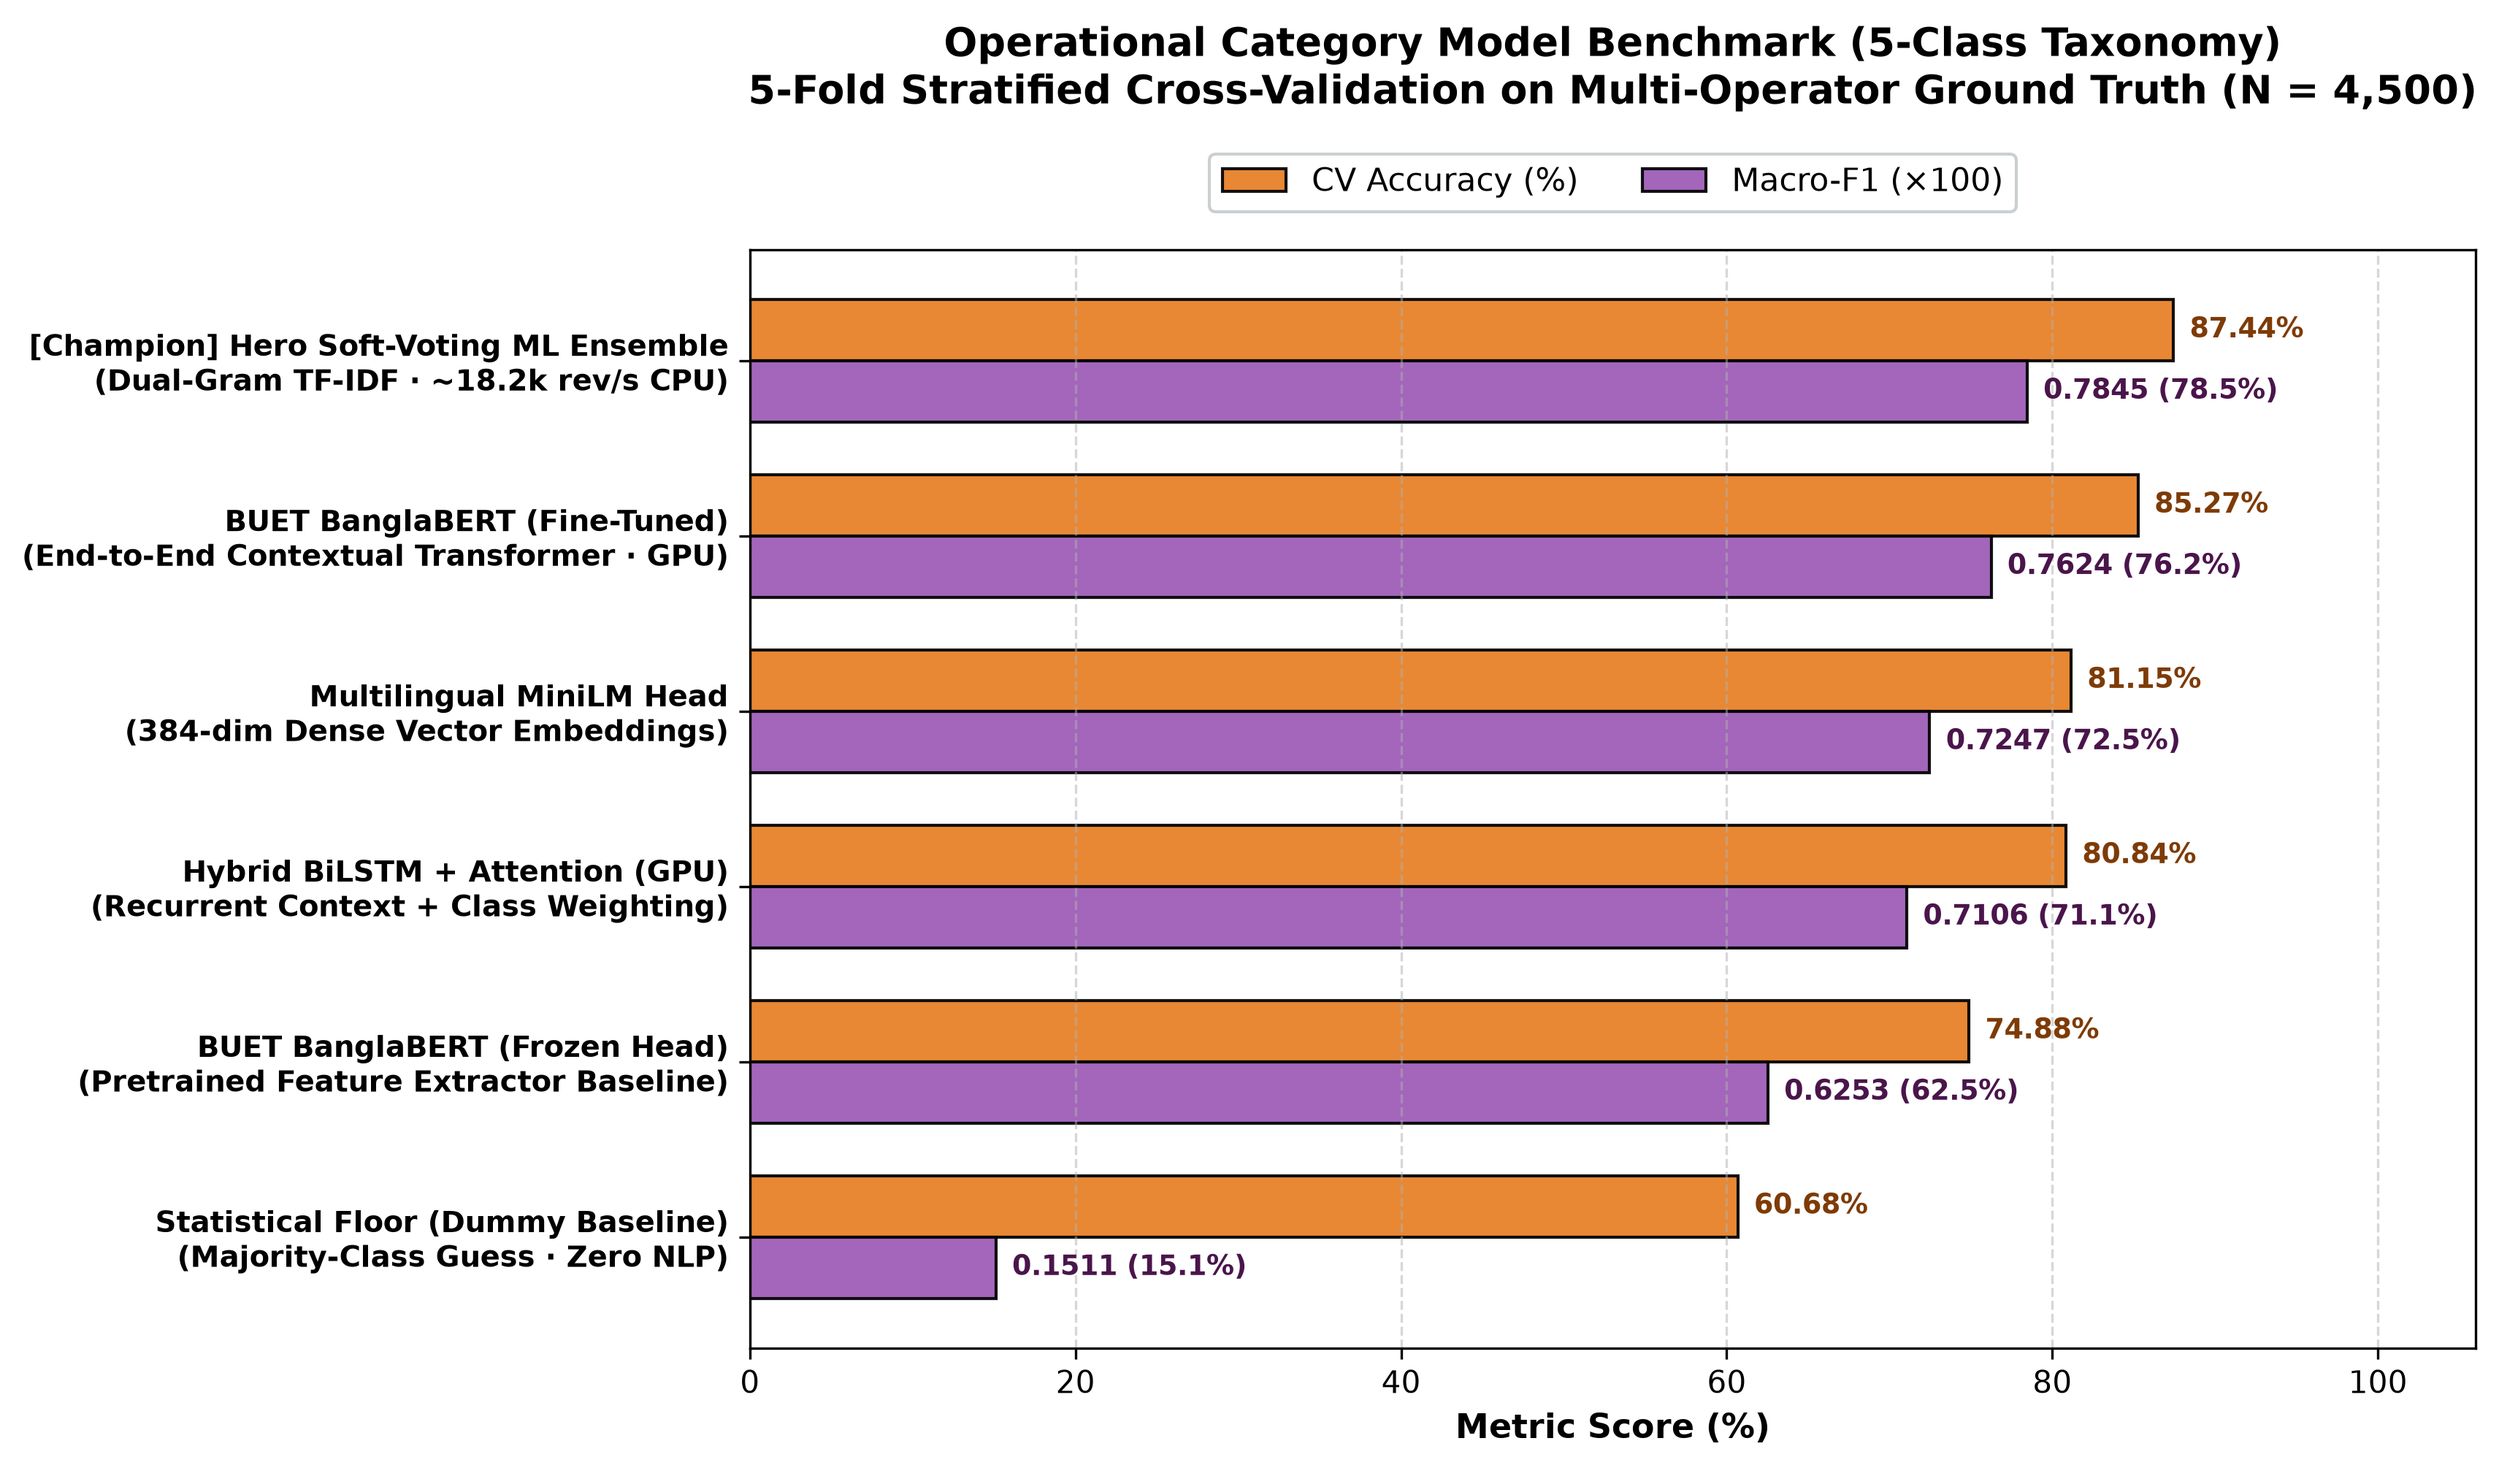
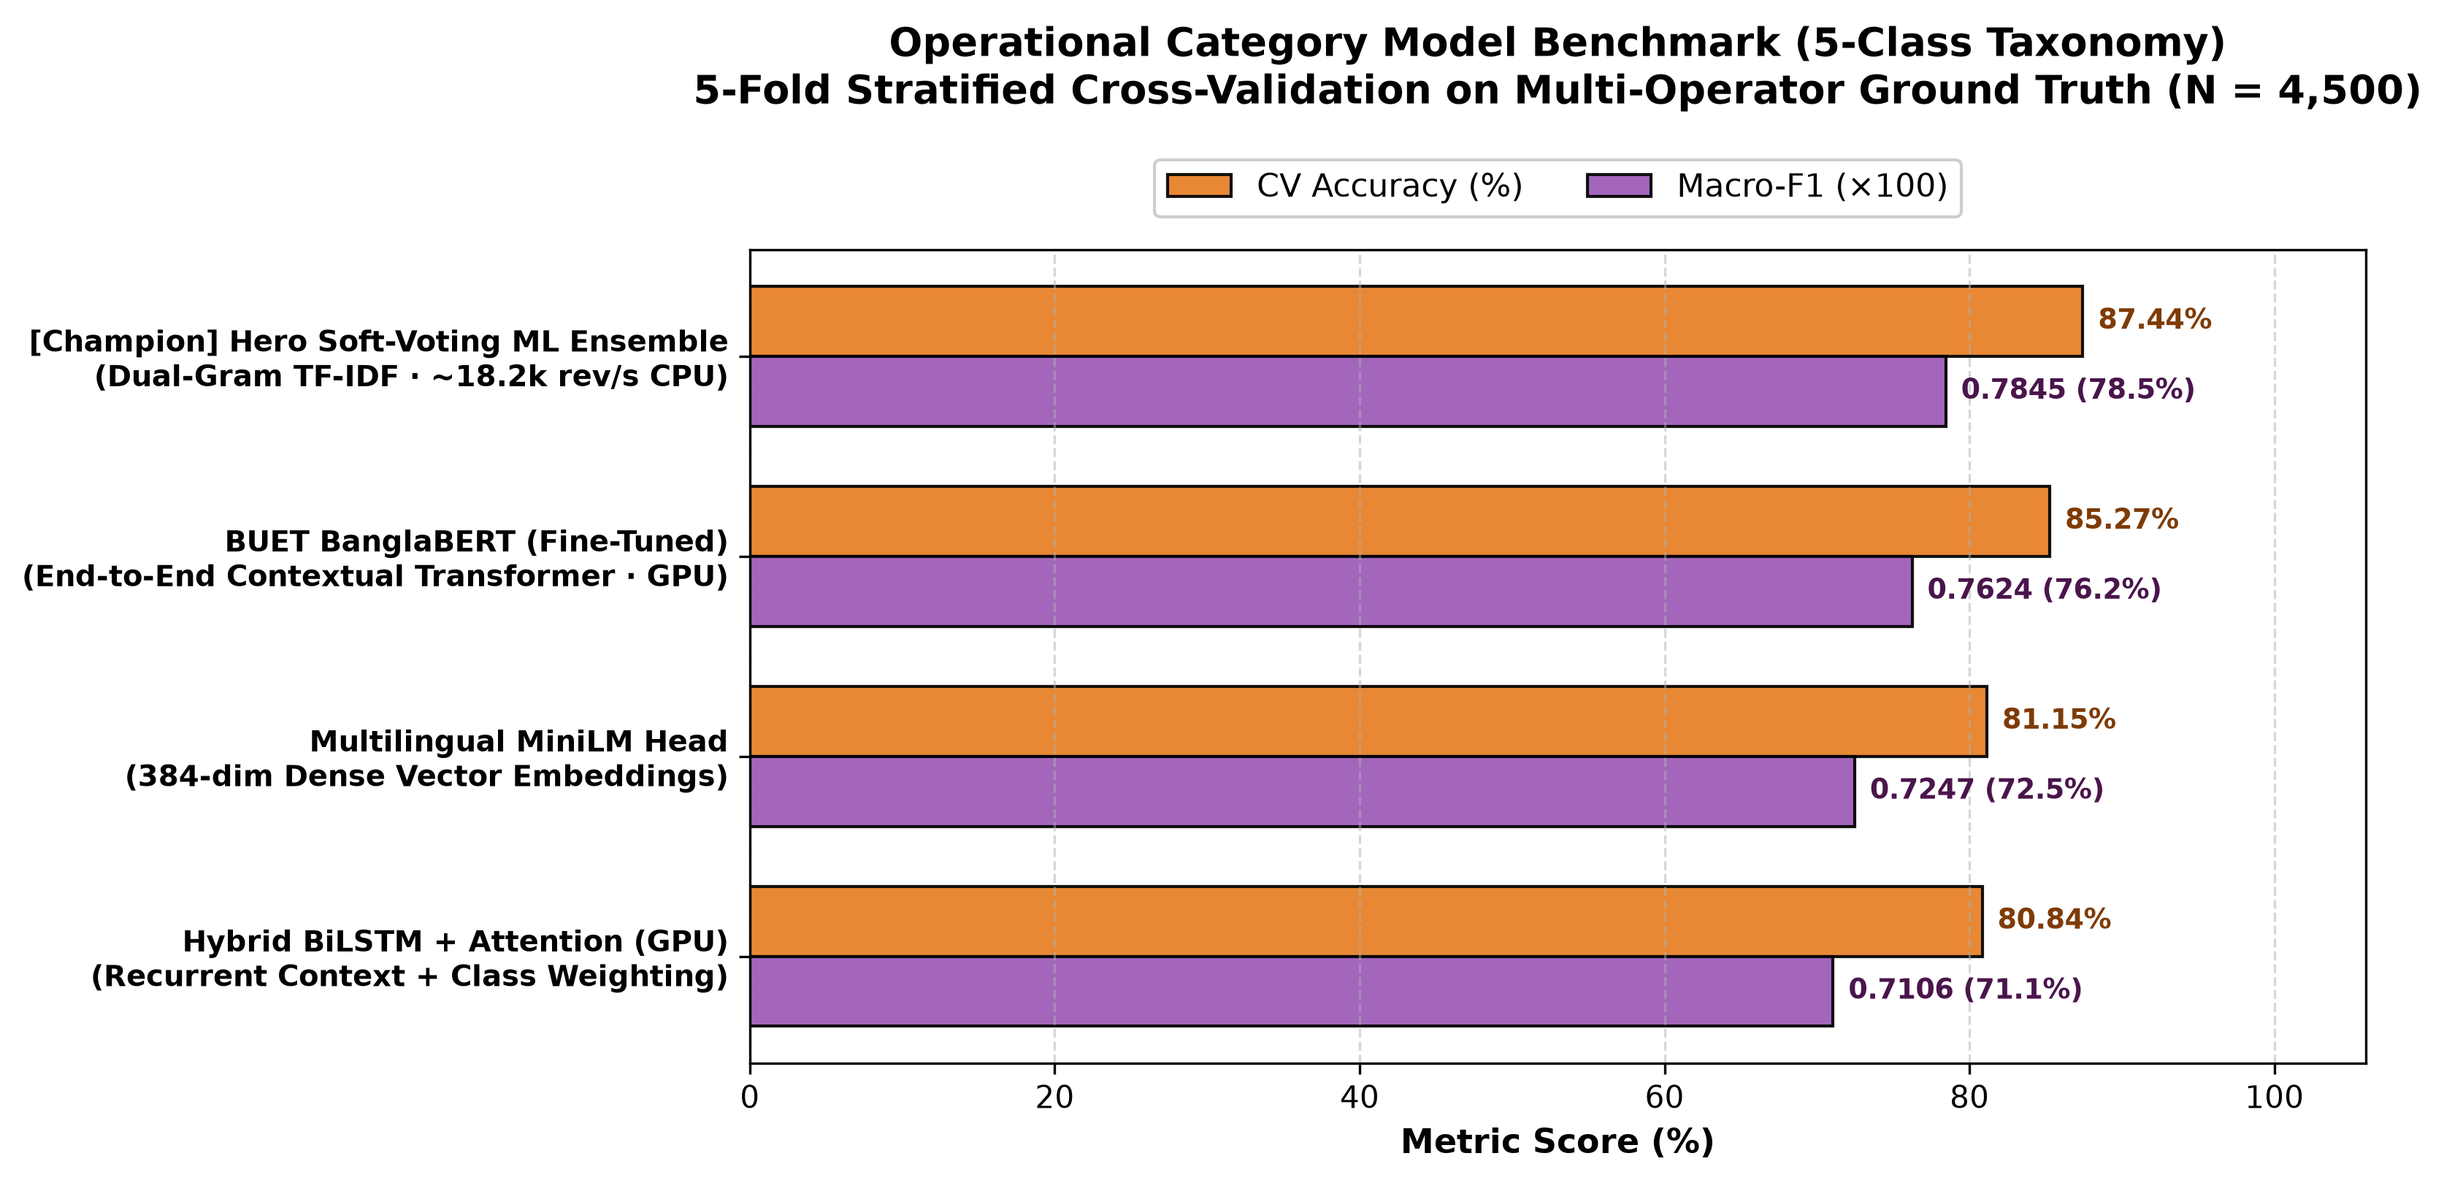
refactor(archive): archive frozen head notebook and Power BI demo GIFs, streamline category leaderboards

diff --git a/scraped_data_global_2020_2026/pipeline/generate_global_visualizations.py b/scraped_data_global_2020_2026/pipeline/generate_global_visualizations.py
@@ -590,22 +590,18 @@ def plot_category_model_benchmark():
         "BUET BanglaBERT (Fine-Tuned)",
         "Multilingual MiniLM Head",
         "Hybrid BiLSTM + Attention",
-        "BUET BanglaBERT (Frozen Head)",
-        "Statistical Floor (Dummy)",
     ]
     labels = [
         "[Champion] Hero Soft-Voting ML Ensemble\n(Dual-Gram TF-IDF · ~18.2k rev/s CPU)",
         "BUET BanglaBERT (Fine-Tuned)\n(End-to-End Contextual Transformer · GPU)",
         "Multilingual MiniLM Head\n(384-dim Dense Vector Embeddings)",
         "Hybrid BiLSTM + Attention (GPU)\n(Recurrent Context + Class Weighting)",
-        "BUET BanglaBERT (Frozen Head)\n(Pretrained Feature Extractor Baseline)",
-        "Statistical Floor (Dummy Baseline)\n(Majority-Class Guess · Zero NLP)",
     ]
-    acc = [87.44, 85.27, 81.15, 80.84, 74.88, 60.68]
-    f1_raw = [0.7845, 0.7624, 0.7247, 0.7106, 0.6253, 0.1511]
+    acc = [87.44, 85.27, 81.15, 80.84]
+    f1_raw = [0.7845, 0.7624, 0.7247, 0.7106]
     f1_pct = [v * 100 for v in f1_raw]
 
-    fig, ax = plt.subplots(figsize=(11.5, 6.8), dpi=300)
+    fig, ax = plt.subplots(figsize=(11.0, 5.5), dpi=300)
     y = np.arange(len(models))
     y_rev = y[::-1]
     h = 0.35

diff --git a/PROJECT_GUIDE.md b/PROJECT_GUIDE.md
@@ -202,11 +202,12 @@ Rather than relying on a single architecture, multiple machine learning and deep
 | Rank | Model Architecture | CV Accuracy | Macro-F1 | Throughput / Latency | Architectural Role |
 | :---: | :--- | :---: | :---: | :---: | :--- |
 | 🥇 | **Hero Soft-Voting ML Ensemble** | **87.44%** | **0.7845** | **~18,200 rev/s** | **Category Champion**: Sub-word character n-grams excel on code-mixed Banglish keywords. |
-| 🥈 | **BUET BanglaBERT (Fine-Tuned)** | **85.27%** | **0.7624** | GPU Batched | Deep contextual representations; +10.4% leap over frozen baseline. |
+| 🥈 | **BUET BanglaBERT (Fine-Tuned)** | **85.27%** | **0.7624** | GPU Batched | Deep contextual representations with full 12-layer backpropagation. |
 | 🥉 | **Multilingual MiniLM Head** | **81.15%** | **0.7247** | ~2,100 rev/s | Multilingual sentence semantic representations with regularized head. |
 | 4 | **Hybrid BiLSTM + Attention (GPU)** | **80.84%** | **0.7106** | Fast GPU Batched | Sequential recurrent context with class-weighted loss. |
-| 5 | **BUET BanglaBERT (Frozen Head)** | **74.88%** | **0.6253** | GPU Required | Baseline frozen feature extractor without end-to-end gradient updates. |
-| 6 | **Statistical Floor (Dummy)** | **60.68%** | **0.1511** | Instant | Naive majority-class baseline without semantic understanding. |
+
+> [!NOTE]
+> **Ablation Note on Frozen vs. Fine-Tuned Transformer**: In early baseline experiments, BUET BanglaBERT was tested as a frozen feature extractor (static 768-dim embeddings + linear head), achieving 74.88% Accuracy / 0.6253 Macro-F1. Full end-to-end fine-tuning delivered a **+10.39% accuracy leap** (85.27% / 0.7624 Macro-F1), proving that updating transformer self-attention layers is essential for adapting to Romanized Banglish tokens. Early frozen baseline notebooks are archived in [`archive/early_dl_experiments/`](archive/early_dl_experiments/).
 
 ### Deep-Dive on Core Architectures:
 
@@ -344,6 +345,9 @@ telecom-Voice-of-Customer_intelligence/
 │       └── generate_global_visualizations.py # Renders all publication-grade 300 DPI plots
 │
 ├── archive/                                  # 🗄 Historical Research & Validation Studies
+│   ├── early_dl_experiments/                 # Early frozen head baseline exploration (superseded by fine-tuning)
+│   ├── powerbi_dashboard/                    # Initial prototype Power BI interface recordings (superseded by Python 300 DPI suite)
+│   ├── seed_pipeline_groq/                   # Phase 1 Groq LLM weak-supervision seed pipeline
 │   └── scraped_data_2020/gold_set/
 │       ├── blind_annotation_300_ratul.csv    # Primary human ground truth (N = 300)
 │       ├── blind_annotation_200_friend.csv   # Independent secondary blind review (N = 200)

diff --git a/archive/early_dl_experiments/README.md b/archive/early_dl_experiments/README.md
@@ -1,0 +1,38 @@
+# 🗄 Archived: Early Deep Learning & Frozen Head Baseline Experiments
+
+> **Status: ARCHIVED / SUPERSEDED** (October 2026)  
+> The active transformer pipeline is BUET BanglaBERT **Full End-to-End Fine-Tuning** located in [`dl/finetune_banglabert.py`](../../dl/finetune_banglabert.py) and [`dl/telecom_voc_banglabert_finetuning_colab.ipynb`](../../dl/telecom_voc_banglabert_finetuning_colab.ipynb).
+
+---
+
+## 📌 Overview
+
+This archive preserves the initial preliminary deep learning experiments conducted prior to implementing end-to-end transformer fine-tuning.
+
+### Archived Files
+- **`telecom_voc_comment_type_classification_colab.ipynb`**:  
+  Initial Colab exploration for 5-class operational category classification using:
+  1. Multilingual MiniLM embeddings (`sentence-transformers/paraphrase-multilingual-MiniLM-L12-v2`) + MLP head.
+  2. PyTorch BiLSTM + Bahdanau attention.
+  3. **BUET BanglaBERT as a Frozen Feature Extractor (`csebuetnlp/banglabert`)**: 
+     In this experiment, the 12 transformer encoder layers were frozen (`torch.no_grad()`), and only a shallow 2-layer MLP head was trained on static 768-dimensional embeddings.
+
+---
+
+## 📊 Empirical Findings & Why It Was Superseded
+
+| Model Architecture | Approach | 5-Fold CV Accuracy | Macro-F1 | Status |
+| :--- | :--- | :---: | :---: | :--- |
+| **BUET BanglaBERT (Frozen Head)** | Static 768-dim embeddings + 2-layer MLP | **74.88%** | **0.6253** | ❌ Underperformed Classical Ensemble (87.44%) |
+| **BUET BanglaBERT (Fine-Tuned)** | Full 12-layer backpropagation (`dl/finetune_banglabert.py`) | **85.27%** | **0.7624** | 🏆 **+10.39% leap** over frozen baseline |
+
+### Why Frozen Feature Extraction Failed
+Pre-trained BanglaBERT representations were trained primarily on formal Bengali web text (Wikipedia, news articles). When presented with customer reviews containing:
+- Heavy phonetic Romanized Bengali ("Banglish") like *"MB er dam beshi"*, *"balance kete niyeche"*, *"faltu network"*,
+- Telecom domain abbreviations (*"VAS"*, *"OTP"*, *"4G"*),
+
+a frozen feature extractor cannot adapt its sub-word token attention weights to these out-of-domain patterns. 
+
+By propagating gradients through all 12 transformer layers during **end-to-end fine-tuning**, the model adapted its internal self-attention heads to telecom domain vocabulary, increasing category accuracy from **74.88% to 85.27%** and achieving state-of-the-art sentiment accuracy of **91.60%**.
+
+The frozen head setup is preserved here purely as an academic ablation baseline.

diff --git a/dl/README.md b/dl/README.md
@@ -22,7 +22,7 @@ This folder contains the complete Deep Learning pipeline, neural model architect
      https://colab.research.google.com/github/rh61632/telecom-Voice-of-Customer_intelligence/blob/main/dl/telecom_voc_banglabert_finetuning_colab.ipynb
      ```
 3. [**`telecom_voc_deep_learning_colab.ipynb`**](file:///home/ratul/Github/telecom-Voice-of-Customer_intelligence/dl/telecom_voc_deep_learning_colab.ipynb): Focused **Sentiment Classification** (Positive, Neutral, Negative).
-4. [**`telecom_voc_comment_type_classification_colab.ipynb`**](file:///home/ratul/Github/telecom-Voice-of-Customer_intelligence/dl/telecom_voc_comment_type_classification_colab.ipynb): Focused **Comment Type / Operational Category** (5 Classes).
+4. [**`archive/early_dl_experiments/telecom_voc_comment_type_classification_colab.ipynb`**](../archive/early_dl_experiments/telecom_voc_comment_type_classification_colab.ipynb): [Archived] Early exploratory frozen feature extractor notebook. Superseded by full fine-tuning notebook above.
 
 ---
 
@@ -73,10 +73,12 @@ Evaluated on the 4,500 curated ground-truth reviews across **Grameenphone**, **R
 | Rank | Model Architecture | CV Accuracy | Macro-F1 | Status / Implementation |
 | :---: | :--- | :---: | :---: | :--- |
 | 🥇 | **Hero Soft-Voting ML Ensemble** | **87.44%** | **0.7845** | Dual-Gram TF-IDF + Logistic Regression + LinearSVC + ComplementNB |
-| 🥈 | **BUET BanglaBERT (Fine-Tuned)** | **85.27%** | **0.7624** | Full 12-layer backpropagation; +10.4% leap over frozen baseline |
+| 🥈 | **BUET BanglaBERT (Fine-Tuned)** | **85.27%** | **0.7624** | Full 12-layer backpropagation (`csebuetnlp/banglabert`) |
 | 🥉 | **Multilingual MiniLM Head** | **81.15%** | **0.7247** | `paraphrase-multilingual-MiniLM-L12-v2` 384-dim dense vectors |
 | 4 | **Hybrid BiLSTM + Attention (GPU)** | **80.84%** | **0.7106** | PyTorch BiLSTM + Bahdanau Attention with class-weighted loss |
-| 5 | **BUET BanglaBERT (Frozen Head)** | **74.88%** | **0.6253** | `csebuetnlp/banglabert` 768-dim contextual representations (Frozen baseline) |
+
+> [!NOTE]
+> **Ablation Study (Frozen vs. Fine-Tuned)**: Evaluating BUET BanglaBERT as a static frozen feature extractor achieved 74.88% CV Accuracy / 0.6253 Macro-F1. End-to-end fine-tuning delivered a **+10.39% leap** to 85.27% CV Accuracy / 0.7624 Macro-F1, proving the necessity of fine-tuning for adapting to domain-specific Romanized Banglish. The original frozen head notebook is archived in [`archive/early_dl_experiments/`](../archive/early_dl_experiments/).
 
 ---
 

diff --git a/archive/powerbi_dashboard/README.md b/archive/powerbi_dashboard/README.md
@@ -1,0 +1,30 @@
+# 🗄 Archived: Early Power BI Prototype Dashboard
+
+> **Status: ARCHIVED / DISCARDED** (October 2026)  
+> The interactive Power BI dashboard was built during the initial proof-of-concept phase and was subsequently discarded in favor of:
+> 1. An automated, reproducible Python publication visualization suite ([`scraped_data_global_2020_2026/pipeline/generate_global_visualizations.py`](../../scraped_data_global_2020_2026/pipeline/generate_global_visualizations.py) generating 300 DPI figures in [`assets/plots/`](../../assets/plots/)).
+> 2. Direct production batch scoring pipelines over the full 434k review corpus without proprietary BI tool dependencies.
+
+---
+
+## 📌 Archived Media
+
+This folder preserves screen recordings of the original prototype Power BI interface (`Voice_of_Customer.pbix`):
+
+1. **`page1_demo.gif`**:
+   - **Page 1: Market Experience & Strategic Overview**
+   - Showcased cross-operator sentiment benchmarking, category complaint breakdowns, and Net Sentiment Score (NSS) cards for Grameenphone, Robi, and Banglalink.
+2. **`page2_demo.gif`**:
+   - **Page 2: Voice-of-Customer Granular Inspector**
+   - Showcased review filtering by operator, star rating, sentiment polarity, and upvotes (`thumbs_up`) along with English LLM summaries.
+
+---
+
+## 💡 Why Power BI Was Discarded
+
+| Dimension | Initial Power BI Prototype | Current Python Production Pipeline |
+| :--- | :--- | :--- |
+| **Data Volume Capacity** | Slowed down on datasets >50k rows without import aggregation | Easily batch-scores and visualizes **434,803 records** (~18,000 rev/s) |
+| **Model Integration** | Relied on static pre-exported CSV columns | Integrates directly with trained PyTorch DL models and Scikit-Learn Voting Ensembles |
+| **Reproducibility** | Required manual UI clicks, proprietary Windows client, and manual dataset refreshes | Single-command reproduction (`python generate_global_visualizations.py`) |
+| **Portability** | Requires Microsoft Power BI Desktop license / installation | Fully open-source, runs cross-platform (Linux/macOS/Windows/Colab) |

diff --git a/README.md b/README.md
@@ -146,11 +146,12 @@ To eliminate task ambiguity between 3-class sentiment polarity and 5-class depar
 | Rank | Model Architecture | CV Accuracy | Macro-F1 | Inference Throughput | Key Strengths / Characteristics |
 | :---: | :--- | :---: | :---: | :---: | :--- |
 | 🥇 | **Hero Soft-Voting ML Ensemble** | **87.44%** | **0.7845** | **~18,200 rev/s** | **Category Champion**: Sub-word character n-grams excel on Romanized Banglish (*"mb"*, *"kete niyeche"*, *"otp"*). |
-| 🥈 | **BUET BanglaBERT (Fine-Tuned)** | **85.27%** | **0.7624** | GPU Batched | Contextual transformer representations; massive leap from 74.88% frozen baseline (+10.4% Acc). |
+| 🥈 | **BUET BanglaBERT (Fine-Tuned)** | **85.27%** | **0.7624** | GPU Batched | Contextual transformer representations with full 12-layer backpropagation. |
 | 🥉 | **Multilingual MiniLM Head** | **81.15%** | **0.7247** | ~2,100 rev/s | Multilingual sentence semantic representations with regularized head. |
 | 4 | **Hybrid BiLSTM + Attention (GPU)** | **80.84%** | **0.7106** | Fast GPU Batched | Sequential token context + inverse frequency class weighting. |
-| 5 | **BUET BanglaBERT (Frozen Head)** | **74.88%** | **0.6253** | GPU Required | Baseline frozen feature extractor without end-to-end gradient updates. |
-| 6 | **Statistical Floor (Dummy)** | **60.68%** | **0.1511** | Instant | Naive majority-class guess without language understanding. |
+
+> [!NOTE]
+> **Ablation Note on Frozen vs. Fine-Tuned Transformer**: In early baseline experiments, BUET BanglaBERT was evaluated as a static frozen feature extractor (768-dim embeddings + linear head), achieving 74.88% Accuracy / 0.6253 Macro-F1. Full end-to-end fine-tuning delivered a **+10.39% accuracy leap** (85.27% / 0.7624 Macro-F1), proving that updating transformer self-attention layers is essential for adapting to Romanized Banglish and telecom-specific vocabulary. Early frozen baseline notebooks are preserved in [`archive/early_dl_experiments/`](archive/early_dl_experiments/).
 
 ### C. Human Ground-Truth Validation & Model Agreement (Zero-Leakage Study)
 
